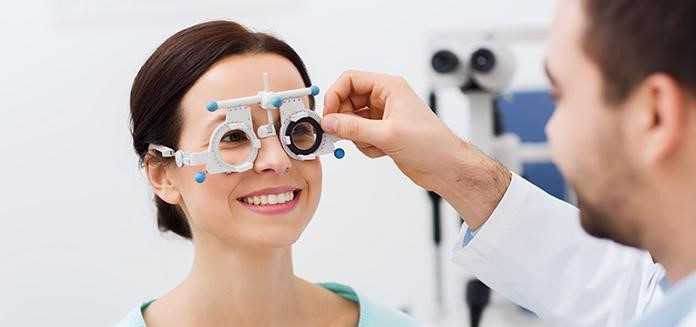
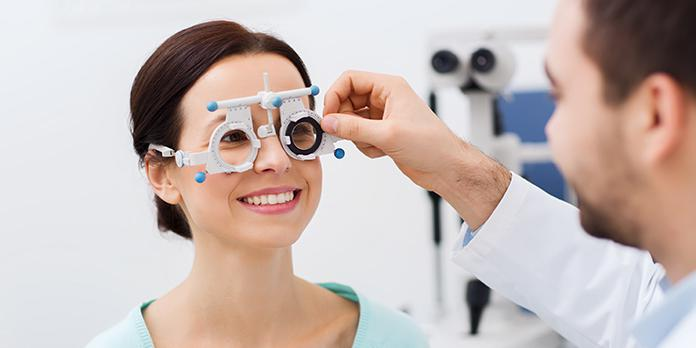
V6

diff --git a/Html/Cecite_C-est_quoi.html b/Html/Cecite_C-est_quoi.html
@@ -36,8 +36,10 @@
                         </li>
                     </ul>
                 </nav>
+                <div class="bandeau">
                 <img src="../Images/Ophtalmo.jpg" alt="Oscultation d'ophalmologie"/>
                 <img src="../Images/Ophtalmo1.jpg" alt="Oscultation d'ophalmologie"/>
+                </div>
                 <h1>LA CECITE</h1>
                 <h2>C'EST QUOI?</h2>
                 

diff --git a/Css/Cecite_C-est_quoi.css b/Css/Cecite_C-est_quoi.css
@@ -4,7 +4,10 @@ main{
     margin: auto;
 }
 header img{
-    width: 49.8%;
+    width: 50%;
+}
+.bandeau{
+    display: flex;
 }
 
 
